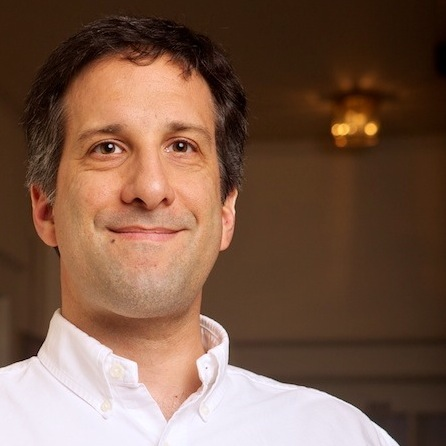
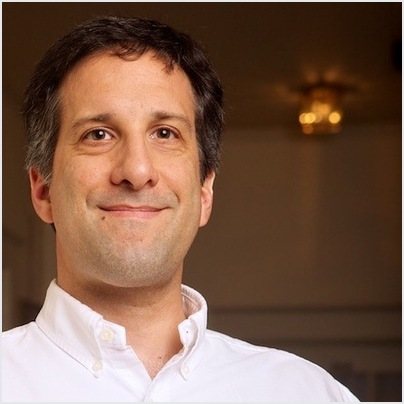
Add Benni and headshot reformatting

diff --git a/src/content/blog/board-of-directors-established.md b/src/content/blog/board-of-directors-established.md
@@ -18,15 +18,35 @@ Today we filed an amended [Articles of Incorporation](https://www.sos.state.co.u
 
 ## Introducing the New Board
 
-- Michael Anello, `@ultimike`  "Mike Anello (ultimike) is a seasoned Drupal developer with over 15 years of experience. He specializes in Drupal consulting and training through his business, ensuring clients leverage Drupal's full potential. Mike is a notable community contributor and advocate, sharing his expertise and insights widely."
-- Jen Lampton, `@jenlampton`, "Jen Lampton has been building websites since 1997, and participating
-  in Open Source communities since 2006. She is a co-founder of Backdrop
-  CMS, and a provisional member of the Drupal security team. Jen
-  currently maintains dozens of Open Source projects, and contributes to
-  other projects (including ddev!) as it applies to her work."
-- Benni Mack
-- Andrew Berry `@deviantintegral` Andrew Berry is the VP of Technology at Lullabot, one of the first Drupal-focused agencies. Andrew's led technical architecture for large Drupal-based platforms, including the [State of Iowa](https://www.lullabot.com/our-work/state-iowa) and [IndieCommerce](https://www.lullabot.com/our-work/american-bookseller-association) - both of which rely on DDEV for locals and CI. Andrew joins the DDEV Board of Directors from Guelph, Ontario, Canada.
-- Randy Fay `@rfay` is the original maintainer of DDEV, enjoying it since 2016. He has deep roots in the Drupal community, and has done loads of traveling by bike.
+### Michael Anello ([@ultimike](https://github.com/ultimike))
+
+![Mike Anello headshot](/img/blog/2025/12/mike-anello-headshot.jpg)
+
+Mike Anello is a seasoned Drupal developer with over 15 years of experience. He specializes in Drupal consulting and training through his business, ensuring clients leverage Drupal's full potential. Mike is a notable community contributor and advocate, sharing his expertise and insights widely.
+
+### Jen Lampton ([@jenlampton](https://github.com/jenlampton))
+
+![Jen Lampton headshot](/img/blog/2025/12/jen-lampton-headshot.png)
+
+Jen Lampton has been building websites since 1997 and participating in Open Source communities since 2006. She is a co-founder of Backdrop CMS and a provisional member of the Drupal security team. Jen currently maintains dozens of Open Source projects and contributes to other projects (including DDEV!) as it applies to her work.
+
+### Benni Mack ([@bmack](https://github.com/bmack))
+
+![Benni Mack headshot](/img/blog/2025/12/benni-mack-headshot.png)
+
+Benni Mack is a long-time TYPO3 core developer and contributor, serving as TYPO3 CMS Team Lead. He brings extensive experience in open source project governance and community building. Benni is passionate about developer experience and has been instrumental in modernizing TYPO3's development practices.
+
+### Andrew Berry ([@deviantintegral](https://github.com/deviantintegral))
+
+![Andrew Berry headshot](/img/blog/2025/12/andrew-berry-headshot.jpg)
+
+Andrew Berry is the VP of Technology at Lullabot, one of the first Drupal-focused agencies. Andrew has led technical architecture for large Drupal-based platforms, including the [State of Iowa](https://www.lullabot.com/our-work/state-iowa) and [IndieCommerce](https://www.lullabot.com/our-work/american-bookseller-association)—both of which rely on DDEV for local development and CI. Andrew joins the DDEV Board of Directors from Guelph, Ontario, Canada.
+
+### Randy Fay ([@rfay](https://github.com/rfay))
+
+![Randy Fay headshot](/img/blog/2025/12/randy-fay-headshot.jpg)
+
+Randy is the original maintainer of DDEV, enjoying it since 2016. He has deep roots in the Drupal community and has done loads of traveling by bike.
 
 ## Our Vision: Sustainability and Financial Stability for the Project
 
@@ -41,3 +61,5 @@ Do you have additional ideas, suggestions, or insight into how DDEV's future cou
 Do you have questions or want to talk (about sponsoring or anything else)? [Contact us!](https://ddev.com/contact/) or join us in [Discord](/s/discord).
 
 _Have you signed up for the monthly [DDEV Newsletter](/newsletter)? We'd love to have you._
+
+_Claude Code was used for editing and formatting in the blog post._
